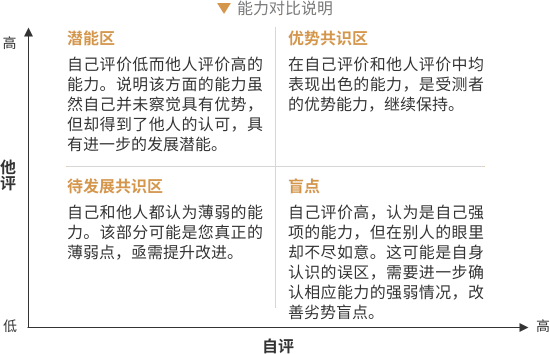
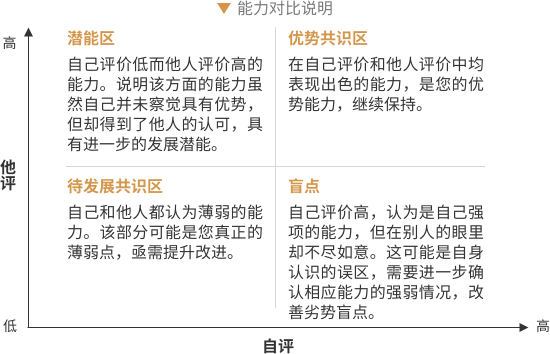
修改文字，图表

Changed region(s): [[0.5255, 0.2175, 0.8964, 0.3107]]

diff --git a/reportSC/TheHighLevel/js/TheHighLevel.js b/reportSC/TheHighLevel/js/TheHighLevel.js
@@ -1,3 +1,4 @@
+
 function GetQueryString(name) {
     var reg = new RegExp("(^|&)" + name + "=([^&]*)(&|$)", "i");
     var r = window.location.search.substr(1).match(reg); //获取url中"?"符后的字符串并正则匹配
@@ -12,6 +13,7 @@ function GetQueryString(name) {
 let people_result_id = this.GetQueryString('people_result_id');
 
 $.ajax({
+    // url: 'http://admin.yx.iwedoing.com/api/client/v1/front/report/data/',
     url:'http://new.iwedoing.com/api/client/v1/front/report/data/',
     type: 'POST',
     data: {
@@ -448,15 +450,15 @@ function AddDom(data) {
 
     if (keynum <= 3) {
         let newadv = $(`<section class="advic sheet">
-            <img src="./img/TheHighLevel_picture024.png" alt="">
-            <div class="border">
-                <div class="content">
-                    <p>根据能力对比分析，在管理者10条能力素质中您应该重点关注被列入“盲点”和“待发展共识区”的能力素质。以下建议供您参考，塑造更好的自己。</p>
-                    <table id="table"></table>
+                <img src="./img/TheHighLevel_picture02（4）.png" alt="">
+                <div class="border">
+                    <div class="content">
+                        <p>根据能力对比分析，在管理者10条能力素质中您应该重点关注被列入“盲点”和“待发展共识区”的能力素质。以下建议供您参考，塑造更好的自己。</p>
+                        <table id="table"></table>
+                    </div>
                 </div>
-            </div>
-            <div class="page">第13页</div>
-        </section>`)
+                <div class="page">第12页</div>
+            </section>`)
 
         $('.after').after(newadv)
 
@@ -492,16 +494,16 @@ function AddDom(data) {
             })
         })
     } else if (keynum > 3 || keynum <= 6) {
-        
+
         let newadv2 = $(`<section class="advic sheet after3">
-                <img src="./img/TheHighLevel_picture024.png" alt="">
-                <div class="border">
-                    <div class="content">
-                        <table id="table"></table>
+                    <img src="./img/TheHighLevel_picture02（4）.png" alt="">
+                    <div class="border">
+                        <div class="content">
+                            <table id="table"></table>
+                        </div>
                     </div>
-                </div>
-                <div class="page">第14页</div>
-            </section>`)
+                    <div class="page">第13页</div>
+                </section>`)
 
         $('.after2').after(newad2)
 
@@ -538,14 +540,14 @@ function AddDom(data) {
     } else if (keynum >= 6 || keynum <= 9) {
 
         let newadv3 = $(`<section class="advic sheet after4">
-                <img src="./img/TheHighLevel_picture024.png" alt="">
-                <div class="border">
-                    <div class="content">
-                        <table id="table"></table>
+                    <img src="./img/TheHighLevel_picture02（4）.png" alt="">
+                    <div class="border">
+                        <div class="content">
+                            <table id="table"></table>
+                        </div>
                     </div>
-                </div>
-                <div class="page">第14页</div>
-            </section>`)
+                    <div class="page">第14页</div>
+                </section>`)
 
         $('.after3').after(newadv3)
 
@@ -582,14 +584,14 @@ function AddDom(data) {
     } else if (keynum <= 10) {
 
         let newadv4 = $(`<section class="advic sheet">
-                <img src="./img/TheHighLevel_picture024.png" alt="">
-                <div class="border">
-                    <div class="content">
-                        <table id="table"></table>
+                    <img src="./img/TheHighLevel_picture02（4）.png" alt="">
+                    <div class="border">
+                        <div class="content">
+                            <table id="table"></table>
+                        </div>
                     </div>
-                </div>
-                <div class="page">第15页</div>
-            </section>`)
+                    <div class="page">第15页</div>
+                </section>`)
 
         $('.after4').after(newadv4)
 
@@ -625,7 +627,7 @@ function AddDom(data) {
     }
 
 
-    
+
     // 雷达图
     var option = {
         dataName: [],
@@ -677,16 +679,16 @@ function AddEchart(data) {
         polar: [
             {
                 indicator: [
-                    { text: data.dataName[0], max: 5 },
-                    { text: data.dataName[1], max: 5 },
-                    { text: data.dataName[2], max: 5 },
-                    { text: data.dataName[3], max: 5 },
                     { text: data.dataName[4], max: 5 },
-                    { text: data.dataName[5], max: 5 },
-                    { text: data.dataName[6], max: 5 },
                     { text: data.dataName[7], max: 5 },
-                    { text: data.dataName[8], max: 5 },
+                    { text: data.dataName[10], max: 5 },
                     { text: data.dataName[9], max: 5 },
+                    { text: data.dataName[8], max: 5 },
+                    { text: data.dataName[2], max: 5 },
+                    { text: data.dataName[5], max: 5 },
+                    { text: data.dataName[3], max: 5 },
+                    { text: data.dataName[1], max: 5 },
+                    { text: data.dataName[6], max: 5 },
                 ],
                 center: ['50%', '50%'],
                 radius: 100
@@ -706,7 +708,7 @@ function AddEchart(data) {
                 },
                 data: [
                     {
-                        value: [data.dataOther[0], data.dataOther[1], data.dataOther[2], data.dataOther[3], data.dataOther[4], data.dataOther[5], data.dataOther[6], data.dataOther[7], data.dataOther[8], data.dataOther[9]],
+                        value: [data.dataOther[4], data.dataOther[7], data.dataOther[10], data.dataOther[9], data.dataOther[8], data.dataOther[2], data.dataOther[5], data.dataOther[3], data.dataOther[1], data.dataOther[6]],
                         name: '他评',
                         symbol: 'star5',
                         symbolSize: 4,           // 可计算特性参数，空数据拖拽提示图形大小
@@ -714,7 +716,8 @@ function AddEchart(data) {
                             normal: {
                                 lineStyle: {
                                     type: 'dashed'
-                                }
+                                },
+                                color: '#4BD38C'
                             }
                         },
                         lineStyle: {                // 单项线条样式。
@@ -725,13 +728,14 @@ function AddEchart(data) {
                         //rgba(75, 211, 140, 1)
                     },
                     {
-                        value: [data.dataSelf[0], data.dataSelf[1], data.dataSelf[2], data.dataSelf[3], data.dataSelf[4], data.dataSelf[5], data.dataSelf[6], data.dataSelf[7], data.dataSelf[8], data.dataSelf[9]],
+                        value: [data.dataSelf[4], data.dataSelf[7], data.dataSelf[10], data.dataSelf[9], data.dataSelf[8], data.dataSelf[2], data.dataSelf[5], data.dataSelf[3], data.dataSelf[1], data.dataSelf[6]],
                         name: '自评',
                         itemStyle: {
                             normal: {
                                 areaStyle: {
                                     type: 'default'
-                                }
+                                },
+                                color: 'rgba(126, 75, 211, 0.9)'   
                             },
 
                         },

diff --git a/reportIT/TheHighLevel/js/TheHighLevel.js b/reportIT/TheHighLevel/js/TheHighLevel.js
@@ -135,6 +135,7 @@ function AddDom(data) {
     $('#Age').text(data.Age)
     $('#Gender').text(data.Gender)
     $('#TestTime').text(data.TestTime)
+    $('.Names').text(data.Name)
 
     $('#self_adv').text(data.analysis['自我评价相对优势能力'])
     $('#self_ids').text(data.analysis['自我评价相对劣势能力'])
@@ -651,6 +652,11 @@ function AddDom(data) {
 }
 
 function AddEchart(data) {
+
+    console.log(data.dataName)
+    console.log(data.dataOther)
+    console.log(data.dataSelf)
+
     var myChart = echarts.init(document.getElementById('scanning'));
     // 指定图表的配置项和数据
     var option = {
@@ -678,16 +684,27 @@ function AddEchart(data) {
         polar: [
             {
                 indicator: [
-                    { text: data.dataName[0], max: 5 },
-                    { text: data.dataName[1], max: 5 },
-                    { text: data.dataName[2], max: 5 },
-                    { text: data.dataName[3], max: 5 },
+                    // { text: data.dataName[4], max: 5 },
+                    // { text: data.dataName[6], max: 5 },
+                    // { text: data.dataName[1], max: 5 },
+                    // { text: data.dataName[3], max: 5 },
+                    // { text: data.dataName[5], max: 5 },
+                    // { text: data.dataName[2], max: 5 },
+                    // { text: data.dataName[8], max: 5 },
+                    // { text: data.dataName[9], max: 5 },
+                    // { text: data.dataName[10], max: 5 },
+                    // { text: data.dataName[7], max: 5 },
+
                     { text: data.dataName[4], max: 5 },
-                    { text: data.dataName[5], max: 5 },
-                    { text: data.dataName[6], max: 5 },
                     { text: data.dataName[7], max: 5 },
-                    { text: data.dataName[8], max: 5 },
+                    { text: data.dataName[10], max: 5 },
                     { text: data.dataName[9], max: 5 },
+                    { text: data.dataName[8], max: 5 },
+                    { text: data.dataName[2], max: 5 },
+                    { text: data.dataName[5], max: 5 },
+                    { text: data.dataName[3], max: 5 },
+                    { text: data.dataName[1], max: 5 },
+                    { text: data.dataName[6], max: 5 },
                 ],
                 center: ['50%', '50%'],
                 radius: 100
@@ -707,7 +724,7 @@ function AddEchart(data) {
                 },
                 data: [
                     {
-                        value: [data.dataOther[0], data.dataOther[1], data.dataOther[2], data.dataOther[3], data.dataOther[4], data.dataOther[5], data.dataOther[6], data.dataOther[7], data.dataOther[8], data.dataOther[9]],
+                        value: [data.dataOther[4], data.dataOther[7], data.dataOther[10], data.dataOther[9], data.dataOther[8], data.dataOther[2], data.dataOther[5], data.dataOther[3], data.dataOther[1], data.dataOther[6]],
                         name: '他评',
                         symbol: 'star5',
                         symbolSize: 4,           // 可计算特性参数，空数据拖拽提示图形大小
@@ -715,24 +732,26 @@ function AddEchart(data) {
                             normal: {
                                 lineStyle: {
                                     type: 'dashed'
-                                }
+                                },
+                                color: '#4BD38C'
                             }
                         },
                         lineStyle: {                // 单项线条样式。
                             normal: {
-                                color: 'rgba(75, 211, 140, 1)'         // 图形透明度
+                                // color: 'rgba(75, 211, 140, 1)'         // 图形透明度
                             }
                         },
                         //rgba(75, 211, 140, 1)
                     },
                     {
-                        value: [data.dataSelf[0], data.dataSelf[1], data.dataSelf[2], data.dataSelf[3], data.dataSelf[4], data.dataSelf[5], data.dataSelf[6], data.dataSelf[7], data.dataSelf[8], data.dataSelf[9]],
+                        value: [data.dataSelf[4], data.dataSelf[7], data.dataSelf[10], data.dataSelf[9], data.dataSelf[8], data.dataSelf[2], data.dataSelf[5], data.dataSelf[3], data.dataSelf[1], data.dataSelf[6]],
                         name: '自评',
                         itemStyle: {
                             normal: {
                                 areaStyle: {
                                     type: 'default'
-                                }
+                                },
+                                color: 'rgba(126, 75, 211, 0.9)'   
                             },
 
                         },

diff --git a/reportIT/TheHighLevel/index.html b/reportIT/TheHighLevel/index.html
@@ -86,17 +86,17 @@
                     <li>
                         <img class="bigimg" src="./img/TheHighLevel_Img03.png" alt="">
                         <img class="icon" src="./img/TheHighLevel_icon_01.png" alt="">
-                        <p>本报告如实地反映被评估人本人和他人的评估结果。它可以帮助被评估人更好地理解并有效运用测评的结果。这些结果是根据评估人对被评估人日常工作表现如实的观察得出的，能反映被评估人在各个管理能力上的真实水平。</p>
+                        <p>本报告如实地反映您本人和他人的评估结果。它可以帮助您更好地理解并有效运用测评的结果。这些结果是根据评估人对您日常工作表现如实的观察得出的，能反映您在各个管理能力上的真实水平。</p>
                     </li>
                     <li>
                         <img class="bigimg" src="./img/TheHighLevel_Img02.png" alt="">
                         <img class="icon" src="./img/TheHighLevel_icon_01.png" alt="">
-                        <p>报告旨在帮助被评估人更好地识别自身的优势和不足，促使其进一步提高和发展管理能力，进而提升组织的竞争力。同时基于评估结果，报告提出针对性的发展建议，帮助被评估人制定具体的行动计划，促使其向更积极的方向转变。</p>
+                        <p>报告旨在帮助您更好地识别自身的优势和不足，促使其进一步提高和发展管理能力，进而提升组织的竞争力。同时基于评估结果，报告提出针对性的发展建议，帮助您制定具体的行动计划，促使其向更积极的方向转变。</p>
                     </li>
                     <li>
                         <img class="bigimg" src="./img/TheHighLevel_Img01.png" alt="">
                         <img class="icon" src="./img/TheHighLevel_icon_01.png" alt="">
-                        <p> 此报告的准确度取决于评估人回答问题的真诚及其对被评估人的认识程度。</p>
+                        <p> 此报告的准确度取决于评估人回答问题的真诚及其对您的认识程度。</p>
                     </li>
                 </ul>
             </div>
@@ -213,7 +213,7 @@
                 </div>
                 <div class="con_bom">
                     <p>二、能力优势和待发展</p>
-                    <p style="margin-top: 10px;color: #333;margin-bottom: 10px;">根据您自评和他评情况，判断该您自认为的相对优势和劣势能力，以及他人认为您存在的相对优势能力和劣势能力。</p>
+                    <p style="margin-top: 10px;color: #333;margin-bottom: 10px;">根据您自评和他评情况，判断您自认为的相对优势和劣势能力，以及他人认为您存在的相对优势能力和劣势能力。</p>
                     <div class="ProsCons">
                         <div class="pc_top">
                             <div class="pctop_l">

diff --git a/reportSC/TheHighLevel/index.html b/reportSC/TheHighLevel/index.html
@@ -86,17 +86,17 @@
                     <li>
                         <img class="bigimg" src="./img/TheHighLevel_Img03.png" alt="">
                         <img class="icon" src="./img/TheHighLevel_icon_01.png" alt="">
-                        <p>本报告如实地反映被评估人本人和他人的评估结果。它可以帮助被评估人更好地理解并有效运用测评的结果。这些结果是根据评估人对被评估人日常工作表现如实的观察得出的，能反映被评估人在各个管理能力上的真实水平。</p>
+                        <p>本报告如实地反映您本人和他人的评估结果。它可以帮助您更好地理解并有效运用测评的结果。这些结果是根据评估人对您日常工作表现如实的观察得出的，能反映您在各个管理能力上的真实水平。</p>
                     </li>
                     <li>
                         <img class="bigimg" src="./img/TheHighLevel_Img02.png" alt="">
                         <img class="icon" src="./img/TheHighLevel_icon_01.png" alt="">
-                        <p>报告旨在帮助被评估人更好地识别自身的优势和不足，促使其进一步提高和发展管理能力，进而提升组织的竞争力。同时基于评估结果，报告提出针对性的发展建议，帮助被评估人制定具体的行动计划，促使其向更积极的方向转变。</p>
+                        <p>报告旨在帮助您更好地识别自身的优势和不足，促使其进一步提高和发展管理能力，进而提升组织的竞争力。同时基于评估结果，报告提出针对性的发展建议，帮助您制定具体的行动计划，促使其向更积极的方向转变。</p>
                     </li>
                     <li>
                         <img class="bigimg" src="./img/TheHighLevel_Img01.png" alt="">
                         <img class="icon" src="./img/TheHighLevel_icon_01.png" alt="">
-                        <p> 此报告的准确度取决于评估人回答问题的真诚及其对被评估人的认识程度。</p>
+                        <p> 此报告的准确度取决于评估人回答问题的真诚及其对您的认识程度。</p>
                     </li>
                 </ul>
             </div>
@@ -213,7 +213,7 @@
                 </div>
                 <div class="con_bom">
                     <p>二、能力优势和待发展</p>
-                    <p style="margin-top: 10px;color: #333;margin-bottom: 10px;">根据您自评和他评情况，判断该您自认为的相对优势和劣势能力，以及他人认为您存在的相对优势能力和劣势能力。</p>
+                    <p style="margin-top: 10px;color: #333;margin-bottom: 10px;">根据您自评和他评情况，判断您自认为的相对优势和劣势能力，以及他人认为您存在的相对优势能力和劣势能力。</p>
                     <div class="ProsCons">
                         <div class="pc_top">
                             <div class="pctop_l">
